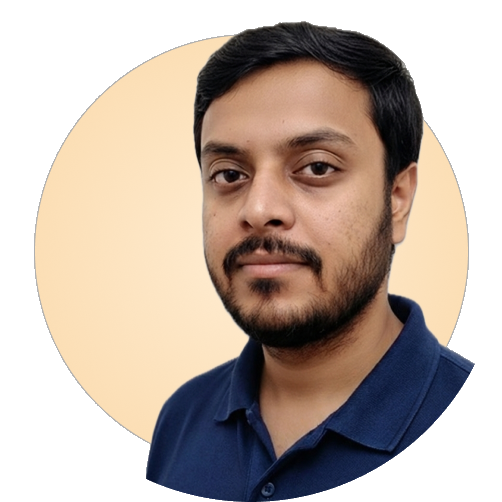
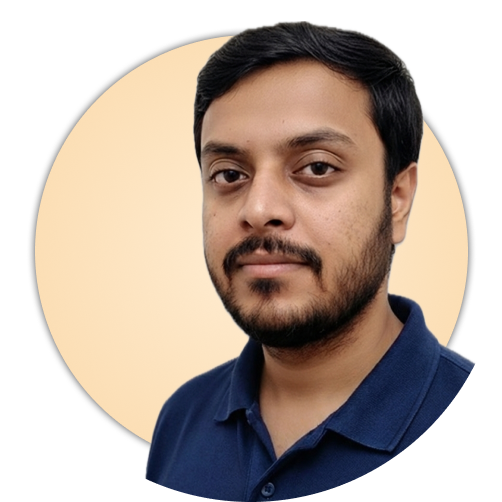
Restore the brand mark's white ring
Claude-Session: https://claude.ai/code/session_01BUxMAAy1WRDHF6wUzfRBPL

diff --git a/about/index.html b/about/index.html
@@ -74,7 +74,7 @@
     </div>
 
     <figure class="lg:col-span-4 lg:col-start-9">
-      <!-- Brand mark (from Ojasv's brand identity): portrait over the peach circle, transparent background -->
+      <!-- Brand mark exactly as in Ojasv's brand identity (white ring included). Do not edit the image. -->
       <picture>
         <source srcset="../assets/img/about/brand-mark.webp" type="image/webp">
         <img src="../assets/img/about/brand-mark.png" width="502" height="502" alt="Portrait of Ojasv Apurv"
